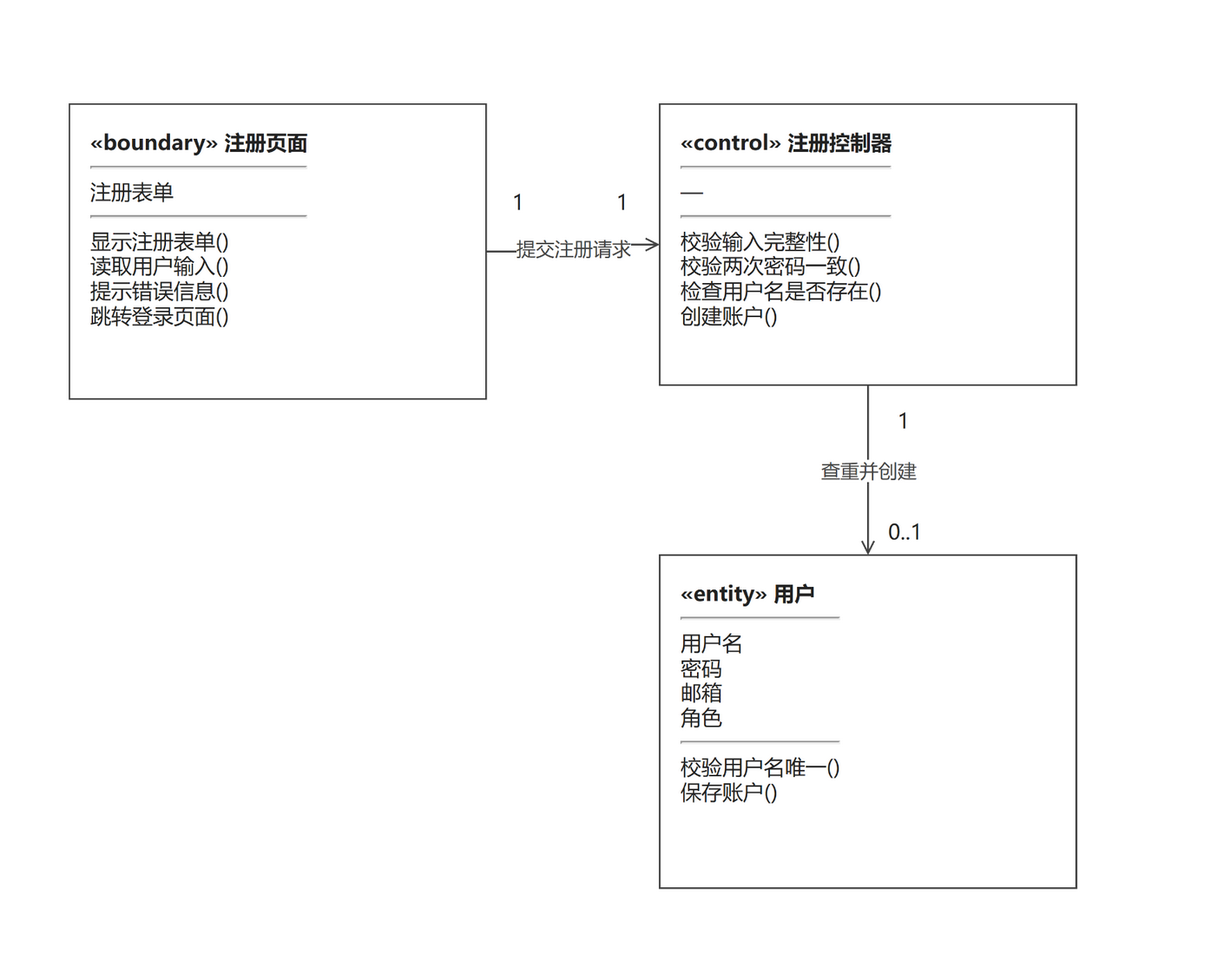
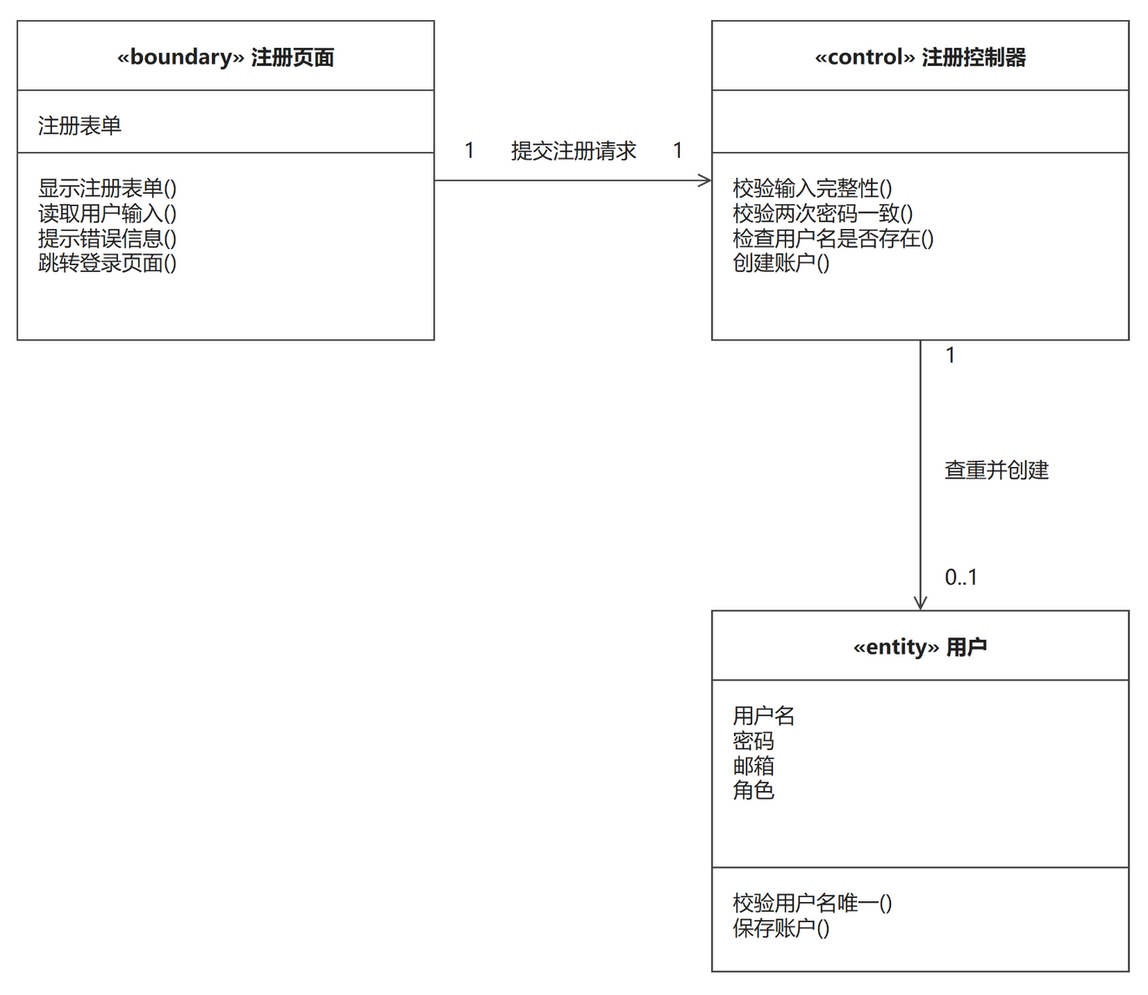
docs(账户管理): 按评审意见修订类模型图与协作图，用户登录改用新版样例

diff --git a/docs/交付/1-账户管理-钟标/gen_figures.py b/docs/交付/1-账户管理-钟标/gen_figures.py
@@ -1,18 +1,32 @@
 # -*- coding: utf-8 -*-
 """成员B · 账户管理模块「用户注册」图稿：活动图 + 类模型图 + 协作图。
 
-说明：
-- 模块用例图（账户管理模块用例图）由两个用例共用，已随模板提供，本脚本不重复生成。
-- 生成后用本机 draw.io 命令行导出 PNG（2 倍缩放）。本机 draw.io 为 Windows 版，
-  在 WSL 下必须把路径转成 Windows 路径（wslpath -w），否则报 input file not found：
-      cd docs/交付/1-账户管理-钟标/images
-      WD=$(wslpath -w "$PWD")
-      "/mnt/c/Program Files/draw.io/draw.io.exe" -x -f png --scale 2 \
-        -o "$WD\\用户注册_活动图.png" "$WD\\用户注册_活动图.drawio"
+本目录下「用户登录」的三张图与模块用例图不由本脚本生成——它们按组长 835c105
+《修订成员B交付示例图稿》后的新版样例，从 main 的 docs/交付/1-账户管理-成员B/
+逐文件整体拷贝（字节一致），本脚本只负责「用户注册」的三张图。
 
-风格遵循 docs/绘图规范.md：白底、黑白线条（#444444）、Microsoft YaHei、
-走线不穿框、扩展流程必须画成分支并形成回路。
-图编号不烤进图片，由组长整合排版时统一编号（本用例的图 2-x）。
+用法：
+    python gen_figures.py                # 在本目录 images/ 下生成 .drawio
+    然后用本机 draw.io 命令行导出 PNG（本机 draw.io 为 Windows 版，在 WSL 下必须
+    把路径转成 Windows 路径，否则报 input file not found）：
+        cd images
+        WD=$(wslpath -w "$PWD")
+        "/mnt/c/Program Files/draw.io/draw.io.exe" -x -f png --scale 2 \
+          -o "$WD\\用户注册_活动图.png" "$WD\\用户注册_活动图.drawio"
+
+风格遵循 docs/绘图规范.md：白底、黑白线条（#444444）、Microsoft YaHei、走线不穿框、
+扩展流程必须画成分支并形成回路。图编号不烤进图片，由组长整合排版时统一编号。
+
+设计约定（2026-09 修订，与 docs/交付/1-账户管理-成员B/gen_login_diagrams.py 对齐）：
+- 协作图：对象框内不写冒号；每条消息一根两端坐标写死的独立直线段（不吸附图元），
+  编号标签紧贴自己那根线（水平线标签在线上方/下方，垂直线标签在线的左/右侧），
+  两对象间的双向消息画成两条平行线，方向一目了然。
+- 类模型图：类框用三个独立矩形拼成"类名/属性/方法"三栏，不用 <hr> 灰色分隔线；
+  同一关联线上的所有文字（关联名 + 两端多重性）全部放在线的同一侧，水平线统一在
+  上方、垂直线统一在右方。
+- 导出说明：draw.io 命令行按"内容包围盒"裁剪 PNG，内容以外的白边会被裁掉。为使
+  边缘的标签不贴图，每张图加一块比内容略大（四周 10~15px）的白色底板，底板不可见
+  但会被计入包围盒，从而得到整齐的四周边距。
 """
 from pathlib import Path
 
@@ -22,50 +36,58 @@ OUT.mkdir(parents=True, exist_ok=True)
 
 FONT = "fontFamily=Microsoft YaHei;fontSize=12;fontColor=#222222;"
 BOX = "rounded=1;whiteSpace=wrap;html=1;fillColor=#FFFFFF;strokeColor=#444444;" + FONT
-GRAY = "rounded=1;whiteSpace=wrap;html=1;fillColor=#F5F5F5;strokeColor=#444444;" + FONT
 NOTE = "rounded=1;whiteSpace=wrap;html=1;fillColor=none;strokeColor=#444444;dashed=1;" + FONT
 DIAMOND = "rhombus;whiteSpace=wrap;html=1;fillColor=#FFFFFF;strokeColor=#444444;" + FONT
-ELLIPSE = "ellipse;whiteSpace=wrap;html=1;fillColor=#FFFFFF;strokeColor=#444444;" + FONT
 ACTOR = ("shape=umlActor;verticalLabelPosition=bottom;verticalAlign=top;html=1;"
          "fillColor=#FFFFFF;strokeColor=#444444;" + FONT)
-CLASSBOX = ("rounded=0;whiteSpace=wrap;html=1;fillColor=#FFFFFF;strokeColor=#444444;"
-            "verticalAlign=top;align=left;spacingLeft=10;spacingTop=8;" + FONT)
+CLASS_TITLE = ("rounded=0;whiteSpace=wrap;html=1;fillColor=#FFFFFF;strokeColor=#444444;"
+               "align=center;verticalAlign=middle;fontStyle=1;" + FONT)
+CLASS_COMP = ("rounded=0;whiteSpace=wrap;html=1;fillColor=#FFFFFF;strokeColor=#444444;"
+              "verticalAlign=top;align=left;spacingLeft=10;spacingTop=6;" + FONT)
 TEXT = "text;html=1;align=center;verticalAlign=middle;fillColor=none;strokeColor=none;" + FONT
+TEXT_L = TEXT.replace("align=center", "align=left")
+TEXT_R = TEXT.replace("align=center", "align=right")
 EDGE = ("edgeStyle=orthogonalEdgeStyle;rounded=0;html=1;strokeColor=#444444;strokeWidth=1;"
         "fontFamily=Microsoft YaHei;fontSize=11;fontColor=#444444;labelBackgroundColor=#FFFFFF;")
-OPEN = EDGE + "startArrow=none;endArrow=open;"        # 开放箭头（类图关联 / 协作图消息）
+SEG = ("html=1;rounded=0;strokeColor=#444444;strokeWidth=1;"
+       "startArrow=none;endArrow=open;endFill=0;")    # 两端坐标写死的独立线段
 
 
 def esc(s):
     return s.replace("&", "&amp;").replace("<", "&lt;").replace(">", "&gt;").replace("\n", "&#xa;")
 
 
-def vertex(cid, value, style, x, y, w, h, parent="1", raw=False):
-    v = value if raw else esc(value)
-    return (f'<mxCell id="{cid}" value="{v}" style="{style}" vertex="1" parent="{parent}">'
+def vertex(cid, value, style, x, y, w, h, parent="1"):
+    return (f'<mxCell id="{cid}" value="{esc(value)}" style="{style}" vertex="1" parent="{parent}">'
             f'<mxGeometry x="{x}" y="{y}" width="{w}" height="{h}" as="geometry"/></mxCell>')
 
 
-def edge(eid, src, dst, label="", style=EDGE, parent="1", points=None, label_xy=None):
+def edge(eid, src, dst, label="", style=EDGE, parent="1", points=None):
     val = f' value="{esc(label)}"' if label else ' value=""'
     if points:
         pts = "".join(f'<mxPoint x="{x}" y="{y}"/>' for x, y in points)
         geom = f'<mxGeometry relative="1" as="geometry"><Array as="points">{pts}</Array></mxGeometry>'
-    elif label_xy is not None:
-        # x = 沿线位置偏移（-1..1），y = 垂直于线的像素偏移
-        geom = f'<mxGeometry relative="1" as="geometry" x="{label_xy[0]}" y="{label_xy[1]}"/>'
     else:
         geom = '<mxGeometry relative="1" as="geometry"/>'
     return (f'<mxCell id="{eid}"{val} style="{style}" edge="1" parent="{parent}" '
             f'source="{src}" target="{dst}">{geom}</mxCell>')
 
 
-def mxfile(cells, page_w, page_h):
-    # 页面大小的白色底板（无边框）：draw.io 命令行导出 PNG 时按"内容包围盒"裁剪，
-    # 没有底板时最右/最下的文字会紧贴图片边缘；加底板后导出即整页，四周留出白边。
-    bg = vertex("page_bg", "", "rounded=0;whiteSpace=wrap;html=1;fillColor=#FFFFFF;strokeColor=none;",
-                0, 0, page_w, page_h)
-    body = "\n        ".join([bg] + cells)
+def seg(eid, x1, y1, x2, y2, style=SEG):
+    """两端坐标写死的独立线段（不吸附图元，箭头方向 = (x1,y1) → (x2,y2)）。"""
+    return (f'<mxCell id="{eid}" value="" style="{style}" edge="1" parent="1">'
+            f'<mxGeometry relative="1" as="geometry">'
+            f'<mxPoint x="{x1}" y="{y1}" as="sourcePoint"/>'
+            f'<mxPoint x="{x2}" y="{y2}" as="targetPoint"/>'
+            f'</mxGeometry></mxCell>')
+
+
+def mxfile(cells, page_w, page_h, bg):
+    """bg = (x, y, w, h)：比内容略大的白色底板，用来在导出时留出整齐的四周边距。"""
+    bx, by, bw, bh = bg
+    bgcell = vertex("page_bg", "", "rounded=0;whiteSpace=wrap;html=1;fillColor=#FFFFFF;strokeColor=none;",
+                    bx, by, bw, bh)
+    body = "\n        ".join([bgcell] + cells)
     return f'''<?xml version="1.0" encoding="UTF-8"?>
 <mxfile host="app.diagrams.net" type="device" version="24.7.5">
   <diagram name="第1页" id="p1">
@@ -81,15 +103,30 @@ def mxfile(cells, page_w, page_h):
 '''
 
 
-def save(name, cells, w, h):
-    (OUT / f"{name}.drawio").write_text(mxfile(cells, w, h), encoding="utf-8")
+def save(name, cells, w, h, bg):
+    (OUT / f"{name}.drawio").write_text(mxfile(cells, w, h, bg), encoding="utf-8")
     print("written:", OUT / f"{name}.drawio")
+
+
+def classbox(cid, stereotype, name, attrs, methods, x, y, w):
+    """三栏类框：标题栏 + 属性栏 + 方法栏三个矩形拼接，栏间是共享黑边框。"""
+    LINE_H, PAD = 24, 12
+    h_title = 40
+    h_attrs = max(1, len(attrs)) * LINE_H + PAD
+    h_meth = max(1, len(methods)) * LINE_H + PAD
+    title = f"«{stereotype}» {name}"
+    return [
+        vertex(cid + "_t", title, CLASS_TITLE, x, y, w, h_title),
+        vertex(cid + "_a", "\n".join(attrs), CLASS_COMP, x, y + h_title, w, h_attrs),
+        vertex(cid + "_m", "\n".join(methods), CLASS_COMP,
+               x, y + h_title + h_attrs, w, h_meth),
+    ], h_title + h_attrs + h_meth
 
 
 # ================= 1. 用户注册活动图 =================
 # 主线一列（x=90..370，中心 230）：基本流程自上而下；
 # 三个扩展流程 2a/2b/3a 各画一个菱形判断 + 虚线错误框 + 回路，回程竖线分三条通道
-# （x=575 / 680 / 800），从框右侧不同高度拐回"输入"步骤，互不穿越。
+# （x=575 / 680 / 800），从"输入"步骤右侧的不同高度拐回，互不穿越。
 cells = [
     vertex("start", "", "ellipse;html=1;fillColor=#444444;strokeColor=#444444;", 218, 24, 24, 24),
     vertex("a1", "打开注册页面", BOX, 90, 70, 280, 44),
@@ -128,70 +165,81 @@ cells = [
     edge("f12", "err3", "a2", "返回步骤 2",
          style=EDGE + "exitX=1;exitY=0.5;entryX=1;entryY=0.25;", points=[(800, 623), (800, 161)]),
 ]
-save("用户注册_活动图", cells, 900, 940)
+save("用户注册_活动图", cells, 900, 940, bg=(78, 12, 764, 896))
 
 # ================= 2. 用户注册类模型图 =================
-def classbox(cid, stereotype, name, attrs, methods, x, y, w, h):
-    parts = [f"<b>{stereotype} {name}</b>", "<hr>"]
-    parts += [a + "<br>" for a in attrs] if attrs else ["—"]
-    parts.append("<hr>")
-    parts += [m + "<br>" for m in methods] if methods else ["—"]
-    return vertex(cid, "".join(parts), CLASSBOX, x, y, w, h)
+# 布局与样例一致：注册页面（左上）→ 注册控制器（右上）→ 用户（右下，实体）
+# 关联文字统一放线的同侧：水平线在上方，垂直线在右方。
+cells = []
+b, h_page = classbox("page", "boundary", "注册页面",
+                     ["注册表单"],
+                     ["显示注册表单()", "读取用户输入()", "提示错误信息()", "跳转登录页面()"],
+                     60, 80, 240)
+cells += b
+b, h_ctl = classbox("ctl", "control", "注册控制器",
+                    [],
+                    ["校验输入完整性()", "校验两次密码一致()", "检查用户名是否存在()", "创建账户()"],
+                    460, 80, 240)
+cells += b
+b, h_user = classbox("user", "entity", "用户",
+                     ["用户名", "密码", "邮箱", "角色"],
+                     ["校验用户名唯一()", "保存账户()"],
+                     460, 420, 240)
+cells += b
 
-
-cells = [
-    classbox("page", "«boundary»", "注册页面",
-             ["注册表单"],
-             ["显示注册表单()", "读取用户输入()", "提示错误信息()", "跳转登录页面()"],
-             40, 60, 240, 170),
-    classbox("ctl", "«control»", "注册控制器",
-             [],
-             ["校验输入完整性()", "校验两次密码一致()", "检查用户名是否存在()", "创建账户()"],
-             380, 60, 240, 162),
-    classbox("user", "«entity»", "用户",
-             ["用户名", "密码", "邮箱", "角色"],
-             ["校验用户名唯一()", "保存账户()"],
-             380, 320, 240, 192),
-    edge("a1", "page", "ctl", "提交注册请求",
-         style=OPEN + "exitX=1;exitY=0.5;entryX=0;entryY=0.5;"),
-    edge("a2", "ctl", "user", "查重并创建",
-         style=OPEN + "exitX=0.5;exitY=1;entryX=0.5;entryY=0;"),
-    # 多重性
-    vertex("m1", "1", TEXT, 288, 106, 20, 20),
-    vertex("m2", "1", TEXT, 348, 106, 20, 20),
-    vertex("m3", "1", TEXT, 510, 232, 20, 20),
-    vertex("m4", "0..1", TEXT, 506, 296, 30, 20),
+# 关联 1：注册页面 → 注册控制器（水平线，全部文字在线上方）
+cells += [
+    seg("a1", 300, 172, 460, 172),
+    vertex("a1_m1", "1", TEXT, 308, 144, 24, 20),              # 页面端多重性
+    vertex("a1_m2", "1", TEXT, 428, 144, 24, 20),              # 控制器端多重性
+    vertex("a1_name", "提交注册请求", TEXT, 335, 144, 90, 20),  # 关联名居中
 ]
-save("用户注册_类模型图", cells, 700, 560)
+# 关联 2：注册控制器 → 用户（垂直线，全部文字在线右方）
+cells += [
+    seg("a2", 580, 80 + h_ctl, 580, 420),
+    vertex("a2_m1", "1", TEXT_L, 592, 262, 24, 20),            # 控制器端多重性
+    vertex("a2_name", "查重并创建", TEXT_L, 592, 328, 90, 20),  # 关联名居中
+    vertex("a2_m2", "0..1", TEXT_L, 592, 390, 40, 20),         # 用户端多重性
+]
+save("用户注册_类模型图", cells, 800, 700, bg=(50, 68, 660, 572))
 
 # ================= 3. 用户注册协作图 =================
-# 消息编号与用例基本流程一一对应：1（输入）→2（提交）→3/4（检查用户名）→5/6（创建）
-# →7（提示成功并跳转）→8（显示登录页）。ctl 与 user 之间 4 条消息按链接上下并排。
+# 布局：用户（左）— 注册页面（中上）— 注册控制器（中下）— 用户实体（右）。
+# 每条消息一根两端坐标写死的独立直线段 + 紧贴该线的编号标签；双向消息画两条
+# 平行线（1/8、2/7、3/4、5/6 各一对），箭头方向即消息方向。
+# 消息编号与用例基本流程一一对应：1（输入）→2（提交）→3/4（检查用户名）
+# →5/6（创建账户）→7（提示成功并跳转）→8（显示登录页）。
 cells = [
-    vertex("actor", "用户", ACTOR, 110, 330, 30, 60),
-    vertex("page", ":注册页面", BOX, 290, 40, 180, 60),
-    vertex("ctl", ":注册控制器", BOX, 290, 200, 180, 200),
-    vertex("user", ":用户", BOX, 690, 200, 180, 200),
-    # 1/8：参与者与注册页面之间
-    edge("m1", "actor", "page", "1: 输入注册信息",
-         style=OPEN + "exitX=1;exitY=0.2;entryX=0;entryY=0.5;", points=[(160, 342), (160, 70)]),
-    edge("m8", "page", "actor", "8: 跳转登录页",
-         style=OPEN + "exitX=0;exitY=0.2;entryX=0;entryY=0.5;", points=[(90, 52), (90, 360)]),
-    # 2/7：注册页面与注册控制器之间
-    edge("m2", "page", "ctl", "2: 提交注册请求",
-         style=OPEN + "exitX=0.5;exitY=1;entryX=0.5;entryY=0;"),
-    edge("m7", "ctl", "page", "7: 提示注册成功",
-         style=OPEN + "exitX=0;exitY=0.15;entryX=0;entryY=0.8;", points=[(260, 230), (260, 88)]),
-    # 3-6：注册控制器与用户（实体）之间，按链接自左向右、自上而下并排
-    edge("m3", "ctl", "user", "3: 检查用户名",
-         style=OPEN + "exitX=1;exitY=0.1;entryX=0;entryY=0.1;", label_xy=(0, -14)),
-    edge("m4", "user", "ctl", "4: 返回检查结果",
-         style=OPEN + "exitX=0;exitY=0.4;entryX=1;entryY=0.4;", label_xy=(0, 14)),
-    edge("m5", "ctl", "user", "5: 创建新账户",
-         style=OPEN + "exitX=1;exitY=0.7;entryX=0;entryY=0.7;", label_xy=(0, -14)),
-    edge("m6", "user", "ctl", "6: 返回创建结果",
-         style=OPEN + "exitX=0;exitY=0.925;entryX=1;entryY=0.925;", label_xy=(0, 14)),
+    vertex("actor", "用户", ACTOR, 60, 100, 30, 60),
+    vertex("page", "注册页面", BOX, 280, 90, 200, 56),
+    vertex("ctl", "注册控制器", BOX, 280, 250, 200, 130),
+    vertex("user", "用户", BOX, 700, 250, 200, 130),
+
+    # 1: 用户 → 注册页面（上线，箭头向右，标签在线上方）
+    seg("m1", 100, 112, 280, 112),
+    vertex("m1_t", "1: 输入注册信息", TEXT, 100, 84, 180, 20),
+    # 8: 注册页面 → 用户（下线，箭头向左，标签在线下方）
+    seg("m8", 280, 136, 100, 136),
+    vertex("m8_t", "8: 跳转登录页", TEXT, 100, 146, 170, 20),
+
+    # 2: 注册页面 → 注册控制器（左线，箭头向下，标签在线左侧）
+    seg("m2", 340, 146, 340, 250),
+    vertex("m2_t", "2: 提交注册请求", TEXT_R, 188, 180, 140, 20),
+    # 7: 注册控制器 → 注册页面（右线，箭头向上，标签在线右侧）
+    seg("m7", 420, 250, 420, 146),
+    vertex("m7_t", "7: 提示注册成功", TEXT_L, 432, 212, 140, 20),
+
+    # 3/5: 注册控制器 → 用户实体（两条平行下线，标签各自紧贴本线上方）
+    seg("m3", 480, 265, 700, 265),
+    vertex("m3_t", "3: 检查用户名", TEXT, 540, 239, 100, 20),
+    seg("m5", 480, 335, 700, 335),
+    vertex("m5_t", "5: 创建新账户", TEXT, 540, 309, 100, 20),
+    # 4/6: 用户实体 → 注册控制器（两条平行上线，标签同样紧贴本线上方）
+    seg("m4", 700, 300, 480, 300),
+    vertex("m4_t", "4: 返回检查结果", TEXT, 530, 274, 120, 20),
+    seg("m6", 700, 370, 480, 370),
+    vertex("m6_t", "6: 返回创建结果", TEXT, 530, 344, 120, 20),
 ]
-save("用户注册_协作图", cells, 940, 500)
+save("用户注册_协作图", cells, 980, 420, bg=(48, 72, 864, 320))
 
 print("done.")

diff --git a/docs/交付/1-账户管理-钟标/用户注册.md b/docs/交付/1-账户管理-钟标/用户注册.md
@@ -1,7 +1,8 @@
 # 用户注册
 
 > 本模块（账户管理）的另一个用例「用户登录」见 `用户登录.md`，两个用例共用同一张模块用例图。
-> 图稿由 `gen_figures.py` 生成（.drawio），再用本机 draw.io 命令行导出 PNG，改图请改脚本后重新导出。
+> 「用户注册」的三张图由本目录 `gen_figures.py` 生成（.drawio），再用本机 draw.io 命令行导出 PNG，改图请改脚本后重新导出；
+> 「用户登录」三张图与模块用例图按组长 835c105 修订后的新版样例，从 main 的 `docs/交付/1-账户管理-成员B/` 整体拷贝，与本脚本无关。
 
 ## 一、功能描述
 
@@ -44,13 +45,13 @@
 
 ![用户注册_类模型图](images/用户注册_类模型图.png)
 
-**图说明**：从用例描述中提取名词作为候选类、动词作为候选方法，按边界/控制/实体（BCE）分为三个分析类。边界类"注册页面"负责与用户交互：显示注册表单、读取用户输入、提示错误信息、跳转登录页面；控制类"注册控制器"负责协调：校验输入完整性、校验两次密码一致、检查用户名是否存在、创建账户，分别对应三个扩展流程的判定与基本流程第 3、4 步；实体类"用户"保存账户数据（用户名、密码、邮箱、角色），并提供"校验用户名唯一"和"保存账户"方法。关联关系："注册页面"与"注册控制器"为 1:1（每次注册由页面提交一次请求给控制器）；"注册控制器"与"用户"为 1 : 0..1——控制器按用户名查重，只有查不到（用户名可用）时才创建新用户，因此用户端多重性为 0..1，这一点正对应扩展流程 3a。
+**图说明**：从用例描述中提取名词作为候选类、动词作为候选方法，按边界/控制/实体（BCE）分为三个分析类。类框为三栏式矩形拼接：第一栏类名（带 «boundary»/«control»/«entity» 版型），第二栏属性，第三栏方法，栏间为实线分隔；"注册控制器"无属性，属性栏留空。边界类"注册页面"负责与用户交互：显示注册表单、读取用户输入、提示错误信息、跳转登录页面；控制类"注册控制器"负责协调：校验输入完整性、校验两次密码一致、检查用户名是否存在、创建账户，分别对应三个扩展流程的判定与基本流程第 3、4 步；实体类"用户"保存账户数据（用户名、密码、邮箱、角色），并提供"校验用户名唯一"和"保存账户"方法。关联关系："注册页面"与"注册控制器"为 1:1（每次注册由页面提交一次请求给控制器）；"注册控制器"与"用户"为 1 : 0..1——控制器按用户名查重，只有查不到（用户名可用）时才创建新用户，因此用户端多重性为 0..1，这一点正对应扩展流程 3a。同一条关联线上的关联名与两端多重性统一放在线的同一侧（水平线一律在上方、垂直线一律在右方），前后位置一致，读图不错位。
 
 ### 2. 协作图
 
 ![用户注册_协作图](images/用户注册_协作图.png)
 
-**图说明**：协作图展示用例执行过程中各对象的消息往来，消息编号与用例基本流程一一对应：1 输入注册信息（用户名、密码、确认密码、邮箱，基本流程第 2 步）→ 2 页面把注册请求提交给控制器 → 3 控制器请求"用户"对象检查用户名是否已存在（第 3 步）→ 4 返回检查结果 → 5 用户名可用，控制器请求创建并保存新账户（第 4 步）→ 6 返回创建结果 → 7 控制器通知页面提示注册成功并跳转登录页（第 5 步）→ 8 页面向用户显示登录页面。扩展流程的体现：当消息 4 返回"用户名已存在"时，控制器改为让页面提示错误并停留在注册页，消息 5～8 不发生；校验输入不完整或两次密码不一致（扩展流程 2a、2b）在控制器内部判定，不产生对"用户"对象的访问，同样不进入消息 5～8。
+**图说明**：协作图展示用例执行过程中各对象的消息往来。对象框内不写冒号；每条消息是一根两端坐标写死的独立直线段，编号标签紧贴自己那根线（水平线标签在线上方，垂直线标签在线的左/右侧），两对象之间的双向消息画成两条平行线、各自带箭头标明方向，消息与箭头一一对应，不会混淆。消息编号与用例基本流程一一对应：1 输入注册信息（用户名、密码、确认密码、邮箱，基本流程第 2 步）→ 2 页面把注册请求提交给控制器 → 3 控制器请求"用户"对象检查用户名是否已存在（第 3 步）→ 4 返回检查结果 → 5 用户名可用，控制器请求创建并保存新账户（第 4 步）→ 6 返回创建结果 → 7 控制器通知页面提示注册成功并跳转登录页（第 5 步）→ 8 页面向用户显示登录页面。扩展流程的体现：当消息 4 返回"用户名已存在"时，控制器改为让页面提示错误并停留在注册页，消息 5～8 不发生；校验输入不完整或两次密码不一致（扩展流程 2a、2b）在控制器内部判定，不产生对"用户"对象的访问，同样不进入消息 5～8。
 
 ---
 
@@ -58,9 +59,9 @@
 
 - [x] 用例描述六段式齐全，与 `docs/需求分析/02_用例描述初稿.md` 用例 1 口径一致（仅"访客/普通用户"的图例表示已加说明）
 - [x] 活动图 1 张，三个扩展流程 2a、2b、3a 全部画成分支，错误分支均拐回步骤 2 形成回路
-- [x] 用例图与"用户登录"共用同一张（账户管理模块用例图）
-- [x] 类模型图为三栏式（类名/属性/方法），关联带箭头与多重性
-- [x] 协作图消息按执行顺序编号（1～8），与用例基本流程一一对应
+- [x] 用例图与"用户登录"共用同一张（账户管理模块用例图），且与 main 上的新版样例字节一致
+- [x] 类模型图为三栏式矩形拼接（类名/属性/方法，无灰色分隔线），关联带箭头与多重性，同一关联线上的文字统一在线的同侧
+- [x] 协作图对象框内不带冒号；消息按执行顺序编号（1～8）且与基本流程对应；双向消息画成两条平行带箭头线，编号标签紧贴所属线段
 - [x] 每幅图后均有文字说明
-- [x] PNG 已逐张目检：无穿框、无压字、无错位、文字完整；`.drawio` 源文件已一并提交
+- [x] PNG 已逐张目检：无穿框、无压字、无错位、文字完整；`.drawio` 与 `.png` 同步重新生成并一并提交
 - [x] 图片引用为相对路径，GitHub 上可正常显示

diff --git a/docs/交付/1-账户管理-钟标/用户登录.md b/docs/交付/1-账户管理-钟标/用户登录.md
@@ -1,4 +1,4 @@
-# 用户登录
+# 用户登录（成员 B · 账户管理模块）
 
 > 本文件是单个功能用例的完整交付示例：功能描述（用例 + 用例图 + 活动图）+ 逻辑分析与建模（类模型图 + 协作图）。
 > 同模块的「用户注册」用例见 `用户注册.md`，两个用例共用同一张模块用例图。
@@ -40,13 +40,13 @@
 
 ![用户登录_类模型图](images/用户登录_类模型图.png)
 
-**图说明**：从用例描述中提取名词作为候选类、动词作为候选方法，按边界/控制/实体（BCE）分为三个分析类。边界类"登录页面"负责与用户交互：显示表单、读取输入、提示错误、按角色跳转；控制类"登录控制器"负责协调：校验输入完整性、验证账户、判断角色；实体类"用户"保存账户数据（用户名、密码、邮箱、角色），并提供"验证密码"方法。关联关系："登录页面"与"登录控制器"为 1:1（每次登录由页面提交一次请求给控制器）；"登录控制器"与"用户"为 1 : 0..1——控制器按用户名查找账户，可能查不到（对应验证失败的扩展流程 3a），因此用户端多重性为 0..1。
+**图说明**：从用例描述中提取名词作为候选类、动词作为候选方法，按边界/控制/实体（BCE）分为三个分析类。类框为三栏式矩形拼接：第一栏类名（带 «boundary»/«control»/«entity» 版型），第二栏属性，第三栏方法，栏间为实线分隔；"登录控制器"无属性，属性栏留空。边界类"登录页面"负责与用户交互：显示表单、读取输入、提示错误、按角色跳转；控制类"登录控制器"负责协调：校验输入完整性、验证账户、判断角色；实体类"用户"保存账户数据（用户名、密码、邮箱、角色），并提供"验证密码"方法。关联关系："登录页面"与"登录控制器"为 1:1（每次登录由页面提交一次请求给控制器）；"登录控制器"与"用户"为 1 : 0..1——控制器按用户名查找账户，可能查不到（对应验证失败的扩展流程 3a），因此用户端多重性为 0..1。同一条关联线上的关联名与两端多重性统一放在线的同一侧（水平线一律在上方、垂直线一律在右方），前后位置一致，读图不错位。
 
 ### 2. 协作图
 
 ![用户登录_协作图](images/用户登录_协作图.png)
 
-**图说明**：协作图展示用例执行过程中各对象的消息往来，消息编号与用例基本流程一一对应：1 输入用户名、密码（基本流程第 2 步）→ 2 页面把登录请求提交给控制器 → 3 控制器请求"用户"对象验证账户、4 返回验证结果与角色（第 3 步）→ 5 控制器通知页面按角色跳转（第 4 步）→ 6 页面向用户显示个人主页或后台管理页。扩展流程的体现：当消息 4 返回"验证失败"时，控制器改为让页面提示错误并停留在登录页，消息 5、6 不发生。
+**图说明**：协作图展示用例执行过程中各对象的消息往来：参与者"用户"与三个对象（登录页面、登录控制器、用户实体）之间共 6 条消息，编号与用例基本流程一一对应：1 输入用户名、密码（基本流程第 2 步）→ 2 页面把登录请求提交给控制器 → 3 控制器请求"用户"对象验证账户、4 返回验证结果与角色（第 3 步）→ 5 控制器通知页面按角色跳转（第 4 步）→ 6 页面向用户显示个人主页或后台管理页。每对对象之间的双向消息画成两条平行线，各自带箭头标明方向；编号标签紧贴所属线段（水平线标签在线上方、垂直线标签在线侧方），消息与箭头一一对应，不会混淆。扩展流程的体现：当消息 4 返回"验证失败"时，控制器改为让页面提示错误并停留在登录页，消息 5、6 不发生。
 
 ---
 
@@ -54,7 +54,7 @@
 
 - [x] 用例描述六段式齐全，与 02 初稿口径一致
 - [x] 活动图覆盖扩展流程 2a、3a，错误分支均形成回路
-- [x] 类模型图为三栏式（类名/属性/方法），关联带箭头与多重性
-- [x] 协作图消息按执行顺序编号（1–6），与基本流程对应
+- [x] 类模型图为三栏式矩形拼接（类名/属性/方法，无灰色分隔线），关联带箭头与多重性，同一关联线上的文字统一在线的同侧
+- [x] 协作图对象框内不带冒号；消息按执行顺序编号（1–6）且与基本流程对应；双向消息画成两条平行带箭头线，编号标签紧贴所属线段
 - [x] 每幅图后均有文字说明
 - [x] PNG 已目检：无穿框、无压字、文字完整；`.drawio` 源文件已一并提交
